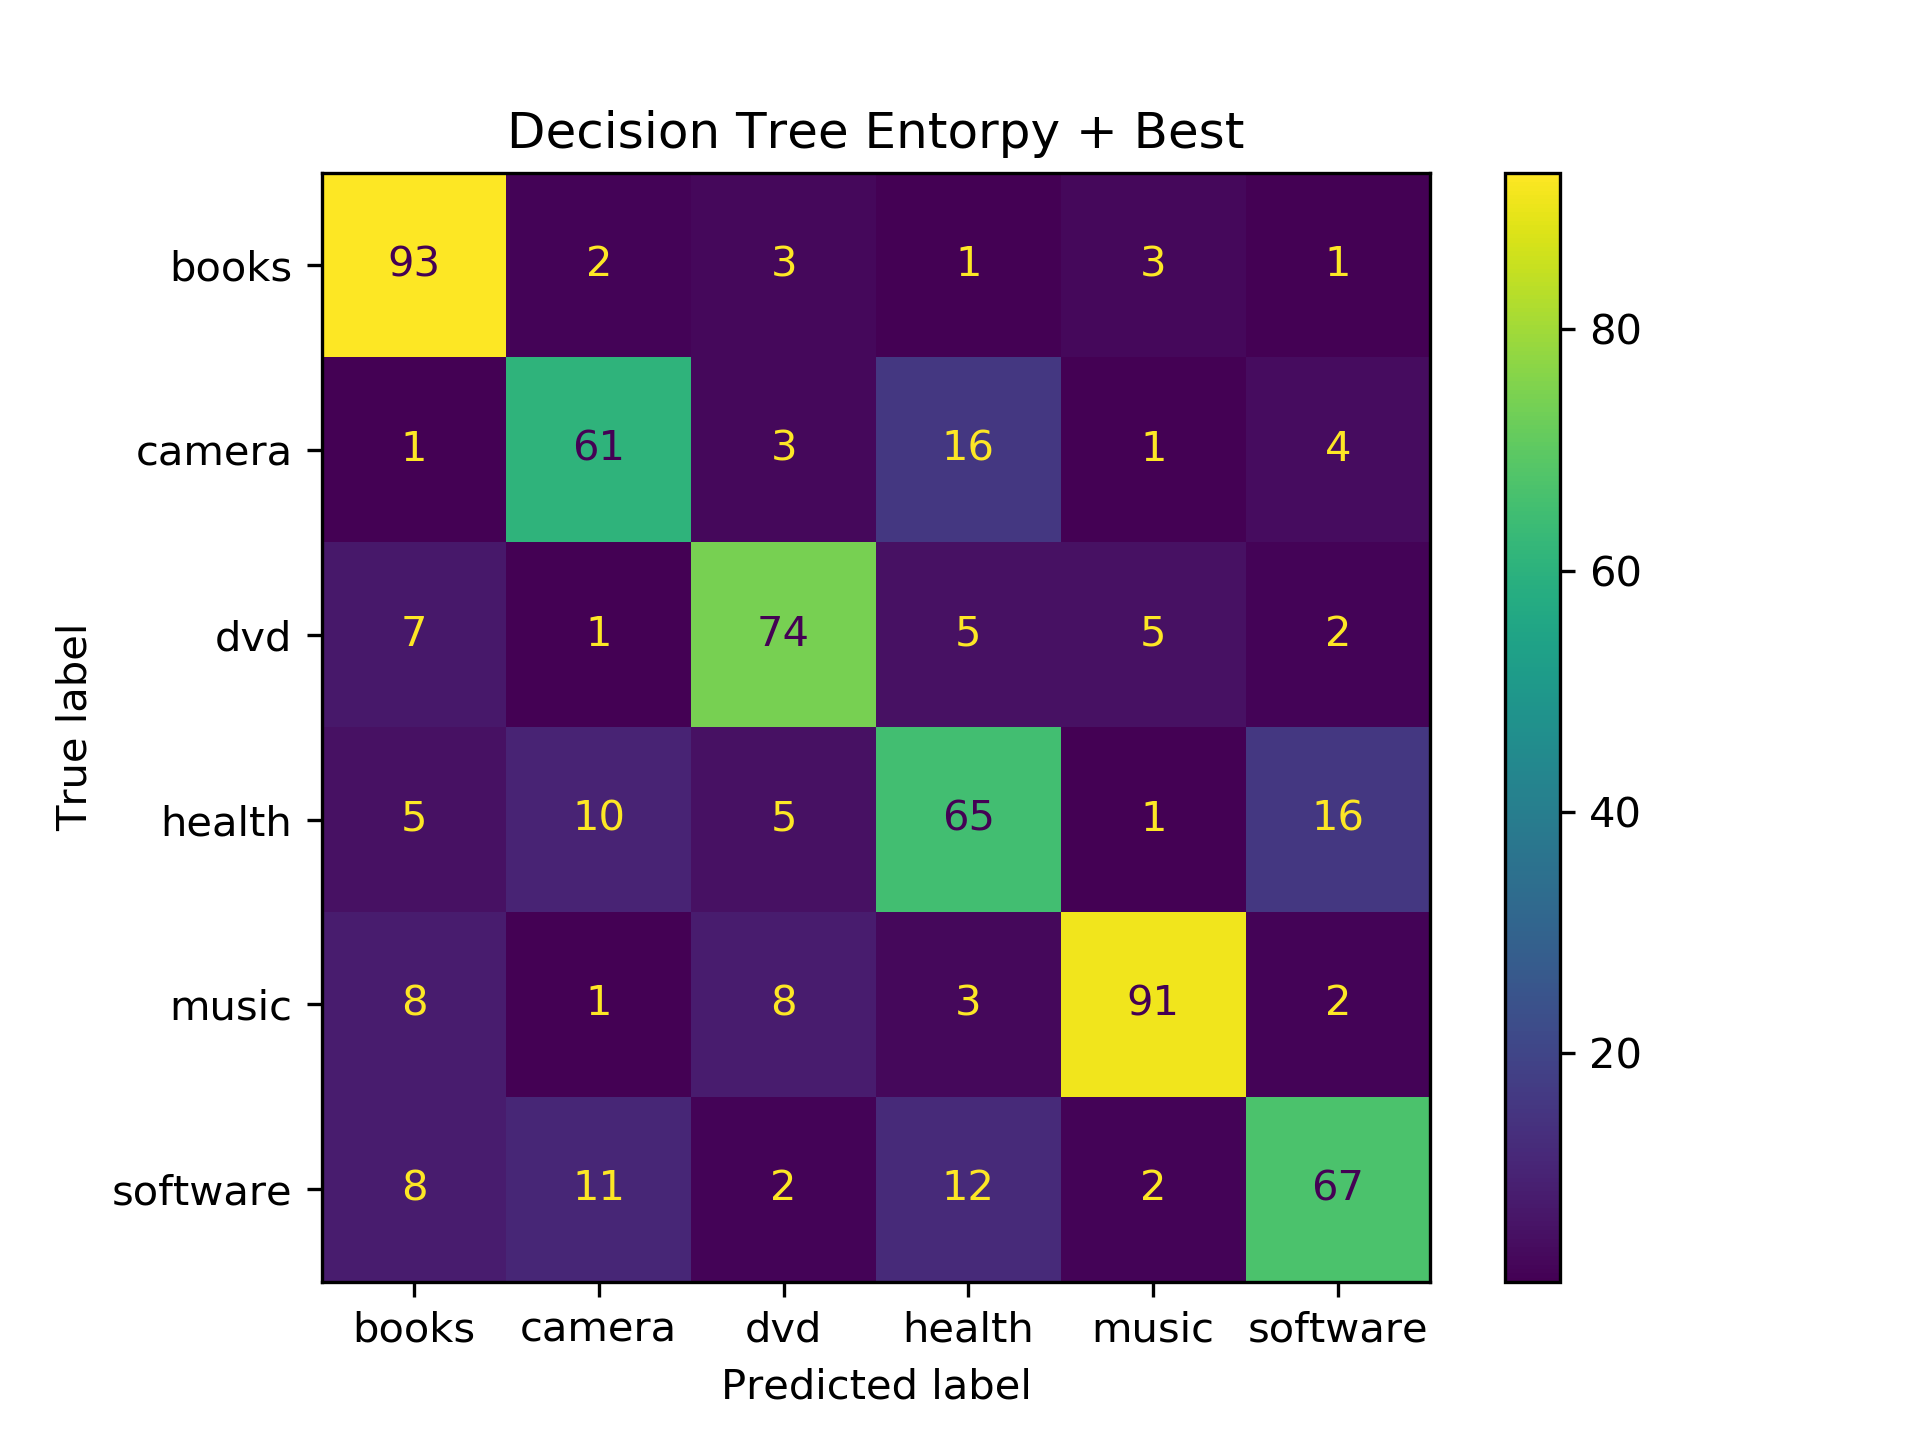
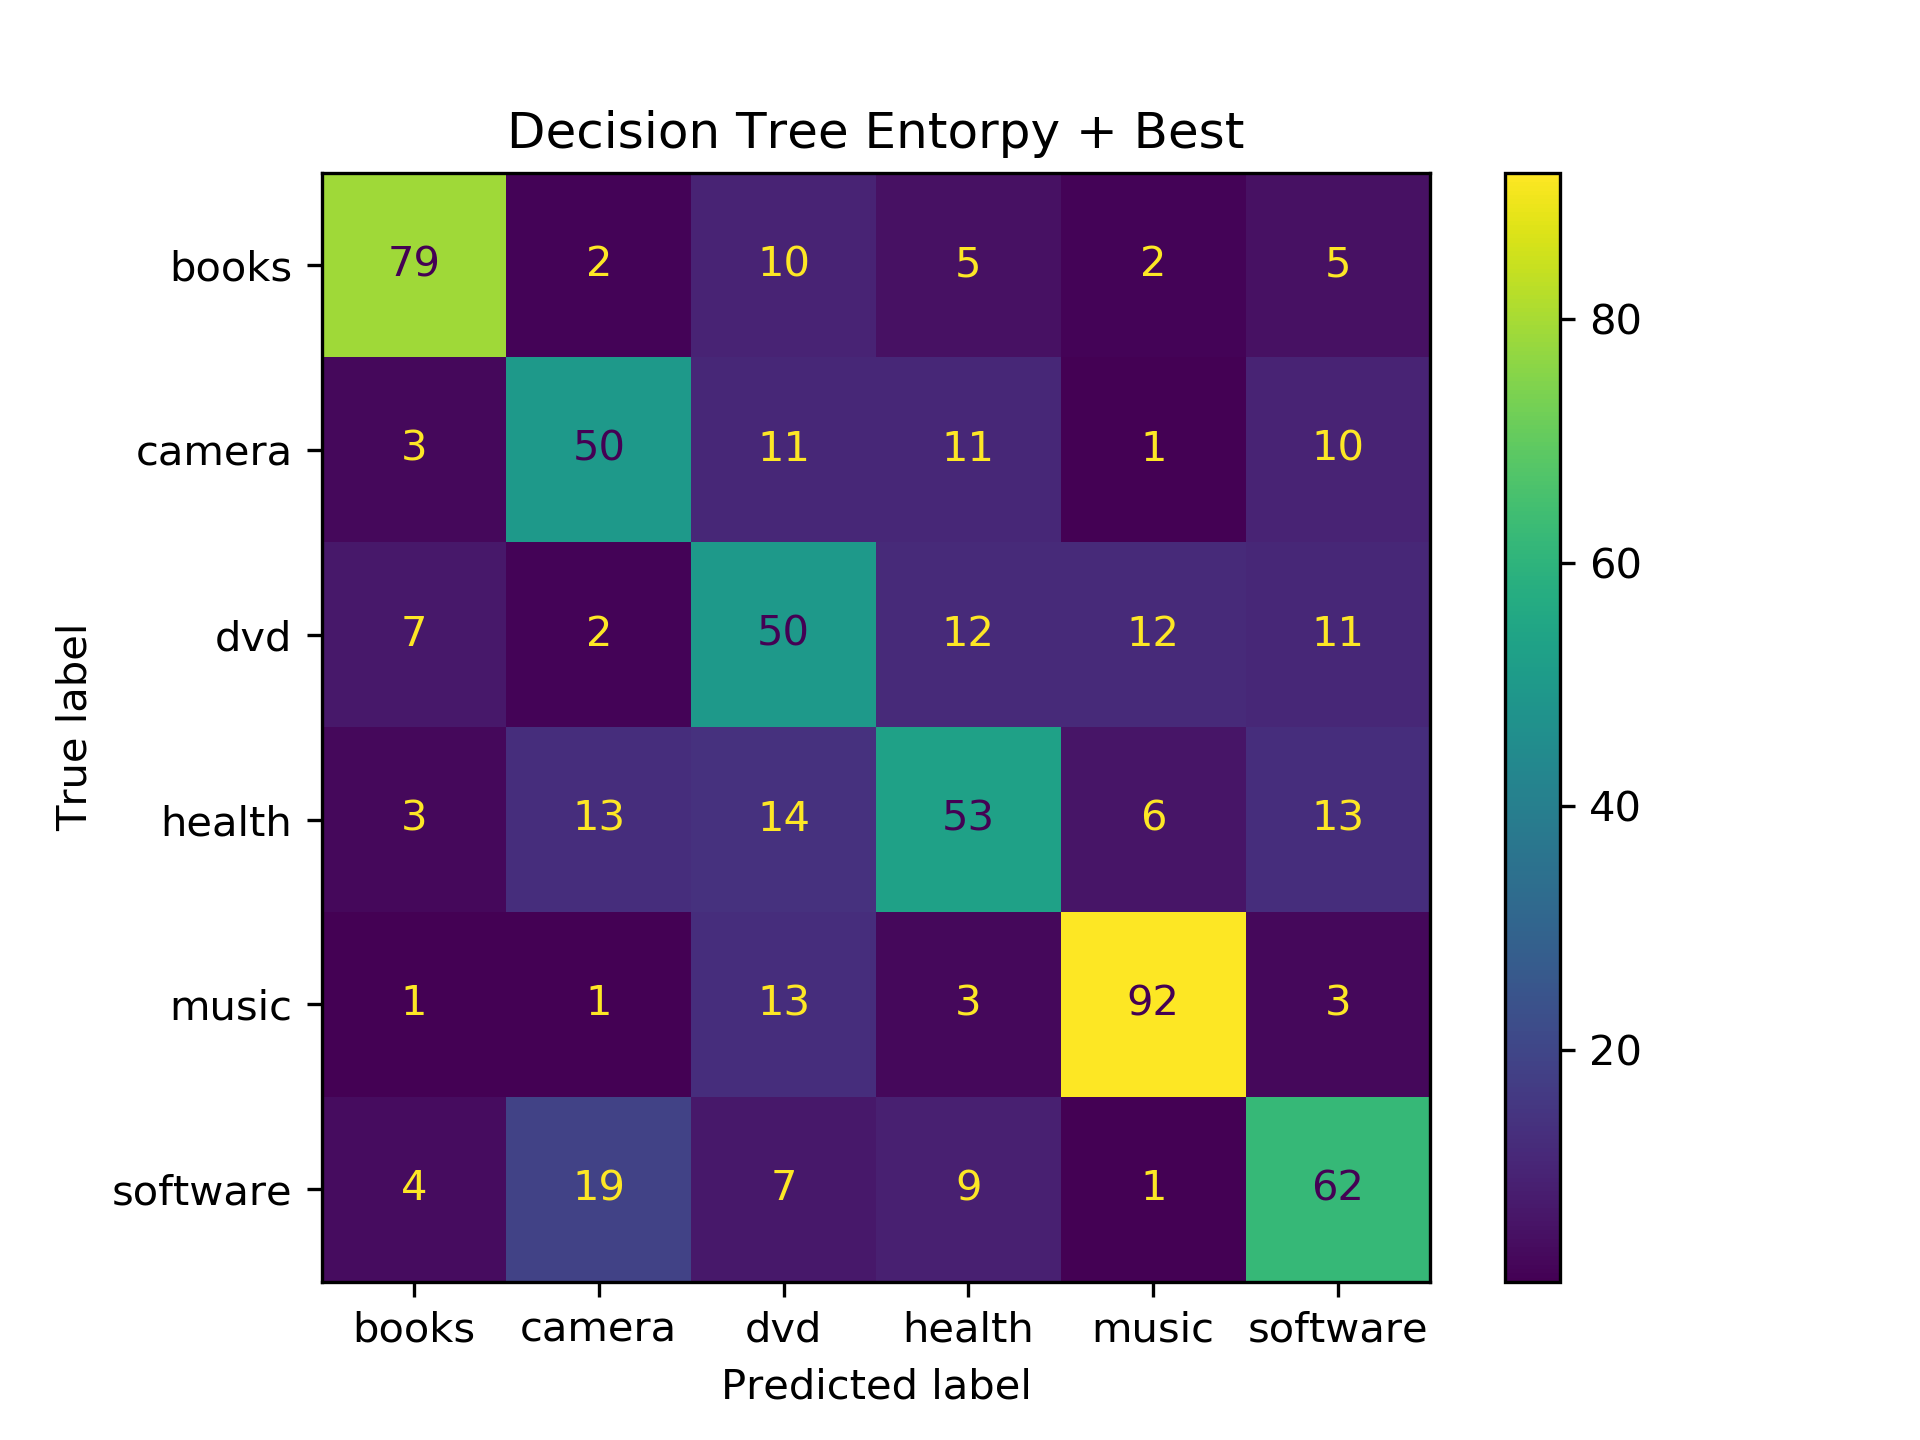
Remove Highly Correlated

diff --git a/assignment1/lfd_assignment1.py b/assignment1/lfd_assignment1.py
@@ -18,6 +18,8 @@ from sklearn.pipeline import Pipeline
 from sklearn.svm import SVC, LinearSVC
 from sklearn.tree import DecisionTreeClassifier
 from sklearn.ensemble import RandomForestClassifier
+from sklearn.base import BaseEstimator, TransformerMixin
+from scipy.sparse import csr_matrix
 from empath import Empath
 
 def create_arg_parser():
@@ -98,6 +100,12 @@ def create_arg_parser():
         action = "store_true",
         help = "Use word count as a feature"
     )
+    parser.add_argument(
+        "-C",
+        "--correlated",
+        action = "store_true",
+        help = "Remove highly correlated features"
+    )
     args = parser.parse_args()
     return args
 
@@ -123,6 +131,32 @@ def identity(inp):
     """Dummy function that just returns the input"""
     return inp
 
+class RemoveCorrelated(BaseEstimator, TransformerMixin):
+    def fit(self, X, y=None):
+        return self
+    
+    def transform(self, X, y=None):
+        if not type(X) == list:
+            X = X.todense()
+        X = pd.DataFrame(X)
+
+        corr = X.corr().abs()
+        print('D')
+        upper = corr.where(np.triu(np.ones(corr.shape), k=1).astype(np.bool))
+        print('D')
+        to_drop = [column for column in upper.columns if any(upper[column] > 0.90)]
+        print(to_drop)
+        for i in to_drop:
+            print('Eerst')
+            print(X[i])
+            X[i] = 0
+            print('NU')
+            print(X[i])
+
+        print(type(X))
+        print(X)
+        X = csr_matrix(X.values)
+        return X
 
 def check_balance(y):
     data = {}
@@ -192,10 +226,16 @@ def setup_df():
 def run_experiments(classifiers, vec, vec_name, X_train, Y_train, X_test, Y_test):
     results = []
     for name, classifier in classifiers:
-        if args.word_count:
-            pipeline = Pipeline([("cls", classifier)])
-        else:
-            pipeline = Pipeline([("vec", vec), ("cls", classifier)])
+        pipe = []
+
+        if not args.word_count:
+            pipe.append(("vec", vec))
+        
+        if args.correlated:
+            pipe.append(("corr", RemoveCorrelated()))
+
+        pipe.append(("cls", classifier))
+        pipeline = Pipeline(pipe)
 
         # TODO: comment this
         pipeline.fit(X_train, Y_train)
